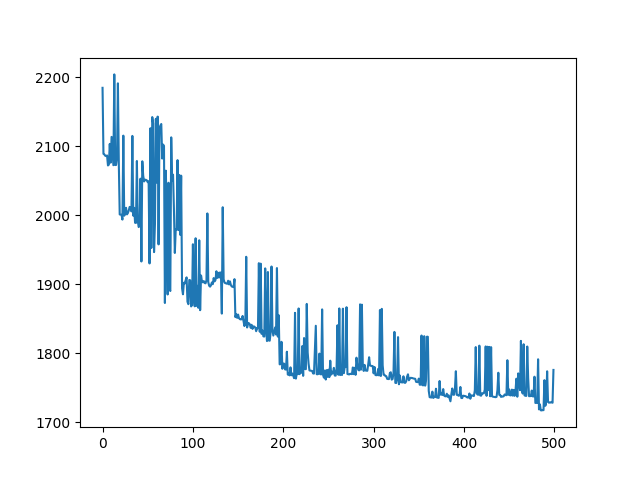
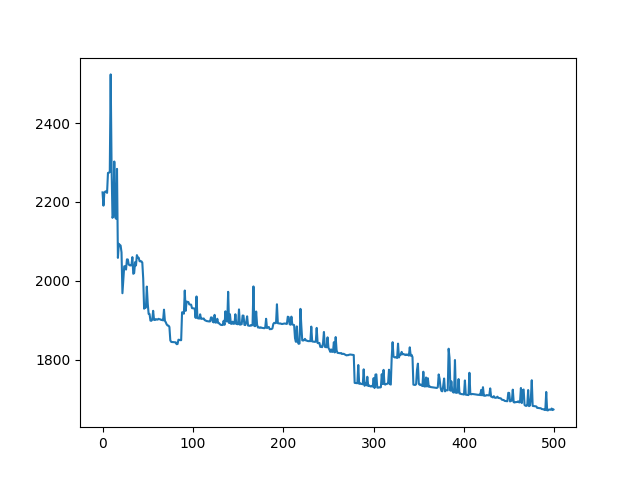
this works better with bigger batches

diff --git a/roadmaps/adamsmap/adamsmap_main.py b/roadmaps/adamsmap/adamsmap_main.py
@@ -27,7 +27,7 @@ if __name__ == "__main__":
     MAX_COST = 100000
 
     # Training
-    ntb = 100  # batch size
+    ntb = 200  # batch size
     nts = 500  # number of batches
 
     # Evaluation
